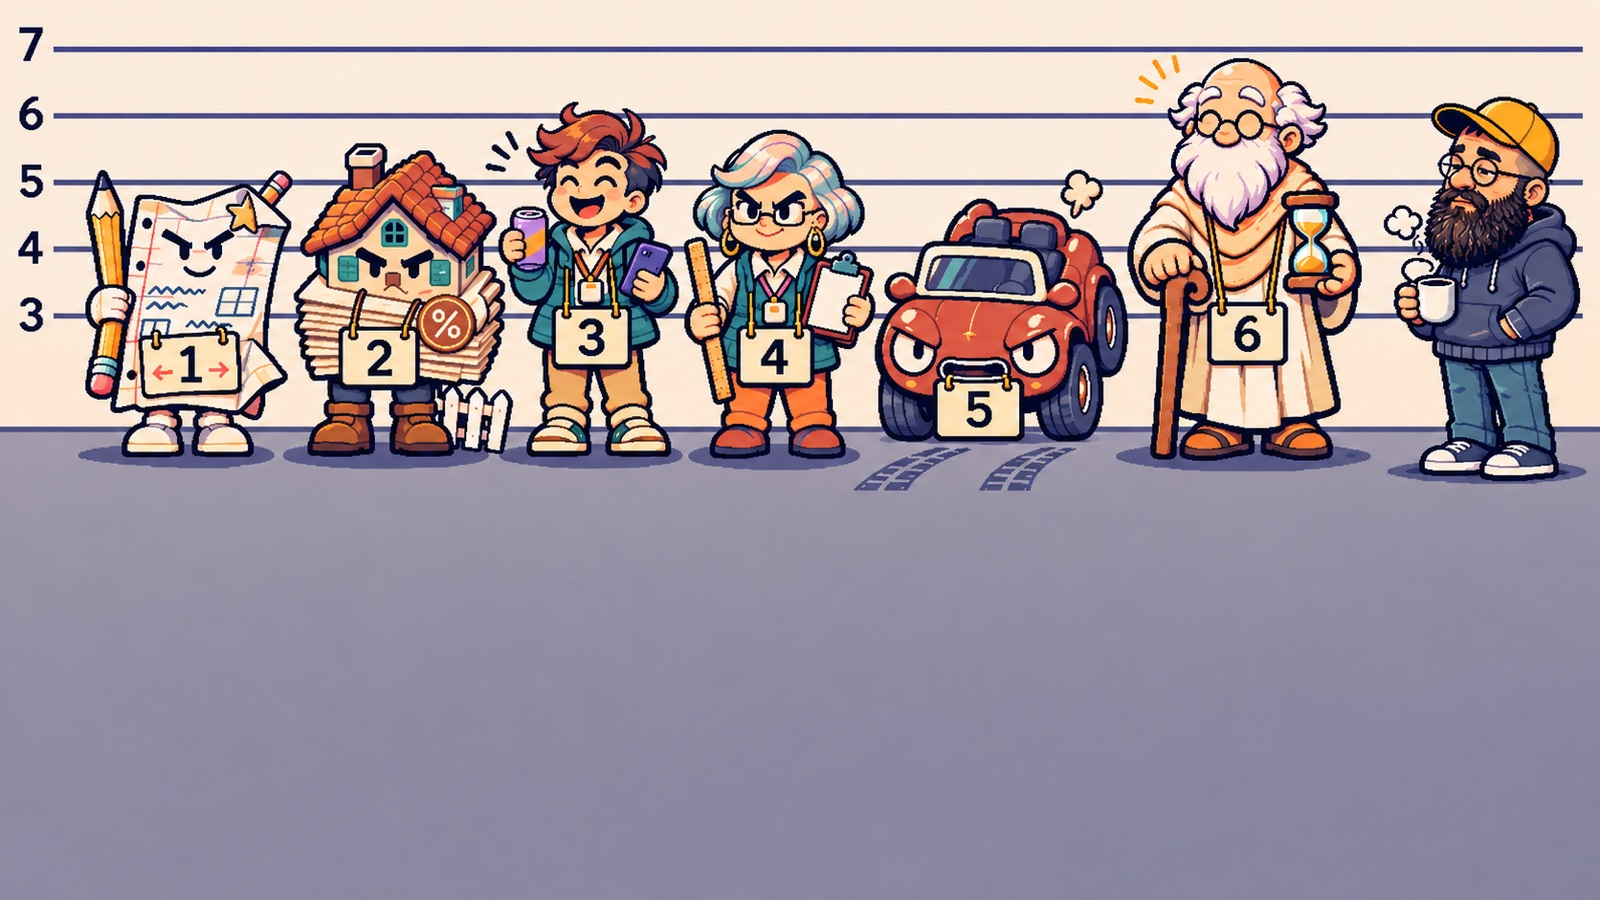
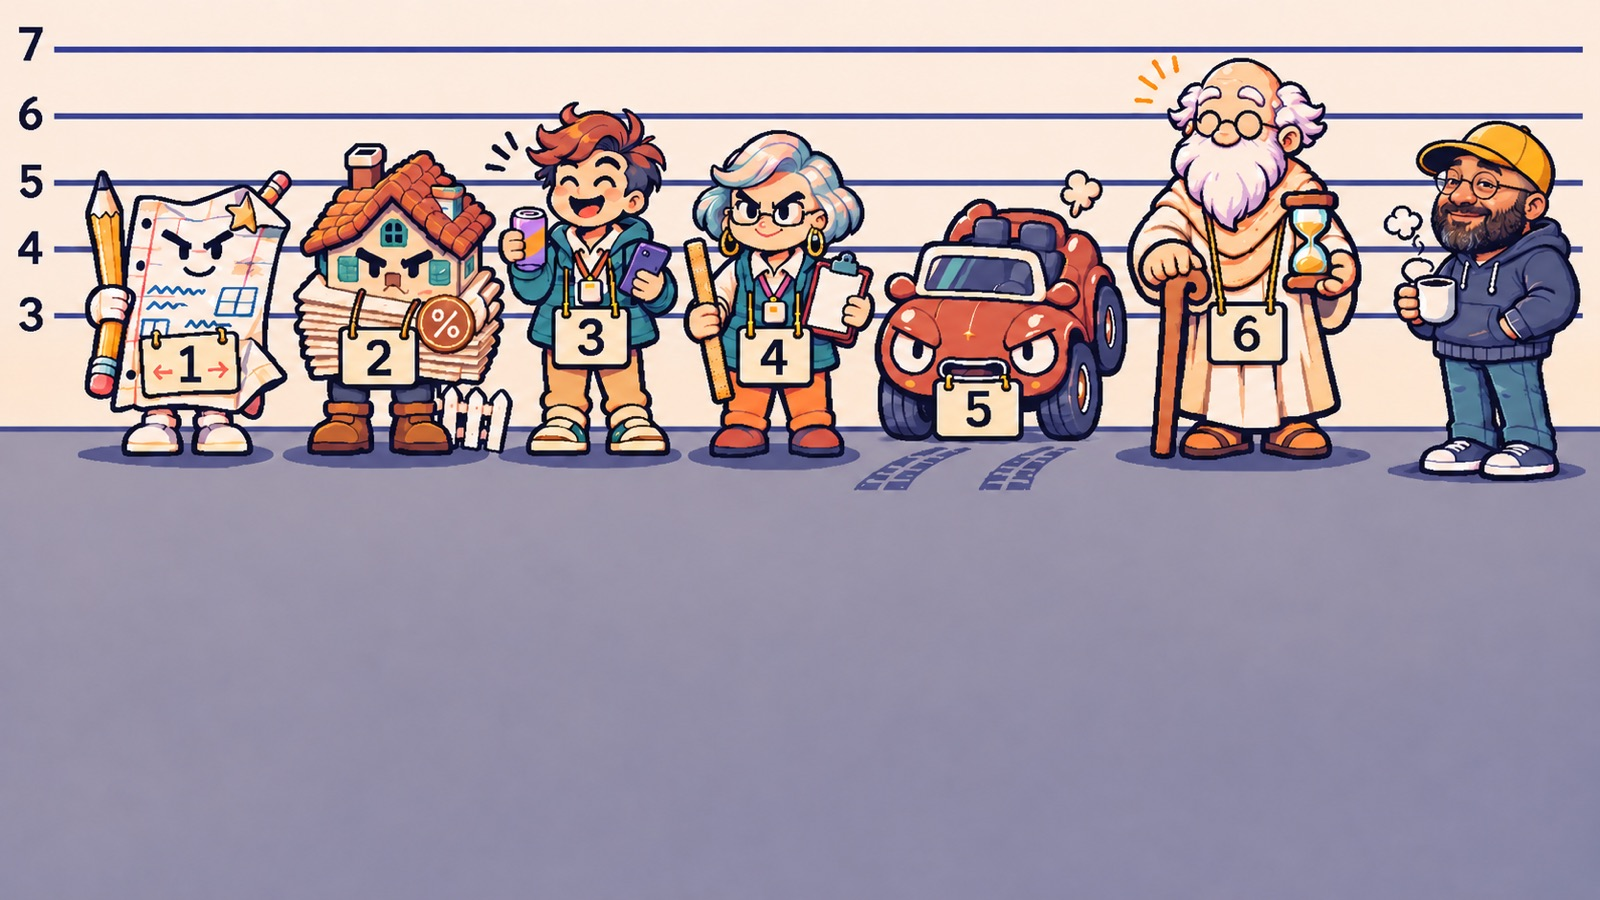
Memo 16: final cover with Rami's face fixed (draft)
Claude-Session: https://claude.ai/code/session_01Lig4WKytdAiKRgd3K42iP7

diff --git a/docs/roadmap.html b/docs/roadmap.html
@@ -91,9 +91,9 @@ code{font-size:.9em;background:var(--line);padding:1px 5px}
     <h2>This week</h2>
     <ol>
       <li><strong>Drafted Nov 16: Memo 15, "I wanted it to feel like home."</strong> Cover is in. Held for your read and Abe's pick.</li>
-      <li><strong>Drafted Nov 16: Memo 16, "Not because I have one. Because I kind of want one."</strong> The bosses, with the real in-game cards and a Math Homework fight clip. Needs a cover.</li>
+      <li><strong>Drafted Nov 16: Memo 16, "Not because I have one. Because I kind of want one."</strong> The bosses, with the real in-game cards and a Math Homework fight clip. Cover is in.</li>
       <li><strong>Shipped Nov 16: V. 2.46.2.</strong> GOOD FIRST PICK for everyone until they hold two weapons.</li>
-      <li><strong>Your turn:</strong> run the Memo 16 cover prompt, and read both drafts when you have time.</li>
+      <li><strong>Your turn:</strong> read both drafts when you have time.</li>
       <li><strong>Next:</strong> Memo 17, Finding your way. Then hero idle polish.</li>
     </ol>
   </section>
@@ -158,7 +158,7 @@ const TODO = [
     ["Memo 15: cover from ChatGPT, with Abe",1],
     ["Memo 15: Abe picks his room screenshot",0],
     ["Memo 15: read the draft and mark it up",0],
-    ["Memo 16: run the cover prompt (boss reference attached)",0],
+    ["Memo 16: cover from ChatGPT, face fixed",1],
     ["Memo 16: read the draft and mark it up",0],
     ["Stand still with each hero: pretty good, needs more work (after the memos)",1],
     ["Read the five memo drafts from Nov 14",0],

diff --git a/devlog/posts.js b/devlog/posts.js
@@ -10,7 +10,7 @@ window.DEVLOG_POSTS = [
     "version": "V. 2.12.0 to 2.46.2",
     "draft": true,
     "cover": "img/16-key-art.jpg",
-    "leadAlt": "Pixel art of a police lineup against a height chart: Fifth-Grade Math Homework, the 30-Year Mortgage with a tiny picket fence, Your New Boss, the HOA President, the Midlife Crisis V8 over its own tire marks, and a smiling Father Time. I stand off to the right with a coffee, trying to pick one out.",
+    "leadAlt": "Pixel art of a police lineup against a height chart: Fifth-Grade Math Homework, the 30-Year Mortgage with a tiny picket fence, Your New Boss, the HOA President, the Midlife Crisis V8 over its own tire marks, and a smiling Father Time. I stand off to the right with a coffee, smiling like I know which one I'd pick.",
     "blurb": "Where the bosses come from: my son's math homework, the house I'm still saving for, and the little jokes in work and life.",
     "teaser": "Fifth-Grade Math Homework, the 30-Year Mortgage, and the boss I'd add next.",
     "changes": [

diff --git a/docs/PROGRESS_LOG.md b/docs/PROGRESS_LOG.md
@@ -2609,3 +2609,4 @@ Saved the registered 11:58 PM title plate, eighteen animation frames and contact
 - Used the real in-game spotlight cards as the boss cards (nine bosses), plus a 15-second clip of Math Homework's paper-airplane attack recorded in the game.
 - Two links from pages opened: Mike Stout on telegraphing (Game Developer) and Bob Cunningham on why kids' math feels unfamiliar to parents (Understood.org).
 - Waiting on Rami: the cover (prompt in docs/devlog-plans/16-cover-prompt.md, boss reference sheet attached) and his read. The cover is a placeholder lineup for now.
+- Later Nov 16: Memo 16 cover from Rami's ChatGPT, three rounds: lineup raised so the title sits on the floor, a two-row portrait for Instagram, and Rami's face matched to his About-page portrait (rounder face, neat beard, warm smile). Checked on the laptop layout.

diff --git a/docs/ROADMAP.md b/docs/ROADMAP.md
@@ -23,7 +23,7 @@ Things only Rami can do. Claude adds items as they come up and checks them off w
 - [ ] Rami: Abe picks the screenshot of his room
 - [ ] Rami: read Memo 15 and mark it up; then publish + social kit
 - [x] Memo 16 "Not because I have one. Because I kind of want one." drafted (hidden)
-- [ ] Rami: Memo 16 cover from ChatGPT (docs/devlog-plans/16-cover-prompt.md + devlog/img/16-boss-reference.jpg)
+- [x] Rami: Memo 16 cover from ChatGPT, landscape and portrait (Nov 16)
 - [ ] Rami: read Memo 16 and mark it up
 - [ ] Memo 17: Finding your way (then the other two)
 - [x] Rami: stood still with each hero (Nov 16): idles are "pretty good but could use some more work"
